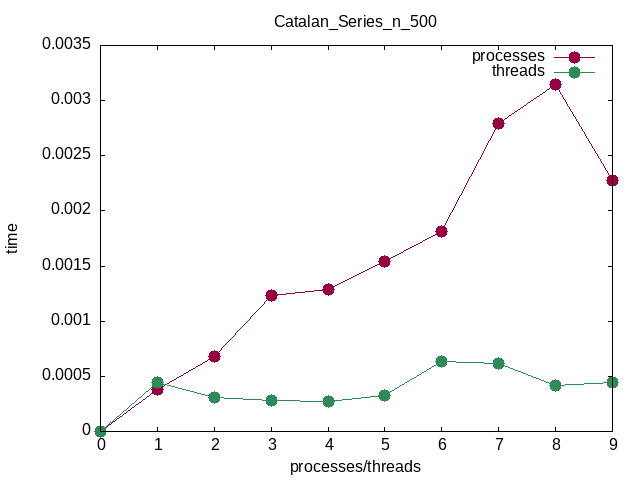
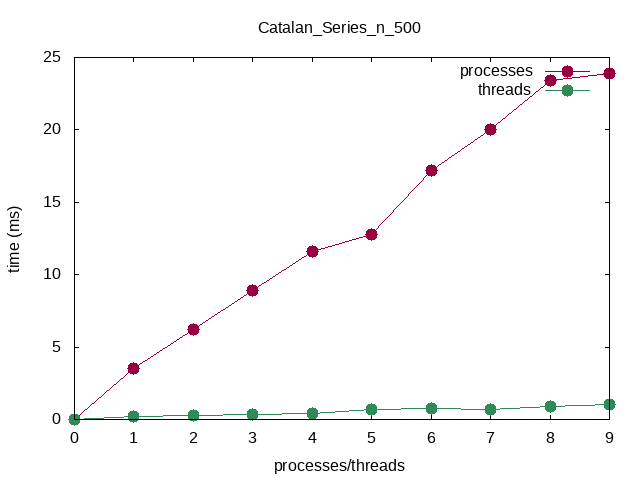
taylor series test complete

diff --git a/main.c b/main.c
@@ -2,19 +2,19 @@
 #include "algotest.h"
 #include <string.h>
 
-void generate_image(char* title, double* p_data, double* t_data, const int n) {
+void generate_image(char* title, double* p_data, double* t_data, const int n, char* xlabel) {
 	FILE *gp = popen("gnuplot", "w");
 
 	fprintf(gp, "set key noenhanced\n" 
 				"set title '%s' noenhanced\n"
 				"set style data linespoints\n"
-				"set xlabel 'processes/threads'\n"
-				"set ylabel 'time'\n"
+				"set xlabel '%s'\n"
+				"set ylabel 'time (ms)'\n"
 				"set style line 1 lw 1 lc rgb '#990042' ps 2 pt 7 pi 1\n"
 				"set style line 2 lw 1 lc rgb '#2E8B57' ps 2 pt 7 pi 1\n"
 				"set terminal png\n"
 				"set output '%s.png'\n"
-				"plot '-' title 'processes' ls 1, '' title 'threads' ls 2\n", title, title);
+				"plot '-' title 'processes' ls 1, '' title 'threads' ls 2\n", title, xlabel, title);
 	for(int i=0; i<n; i++){
 		fprintf(gp, "%d %lf\n", i, p_data[i]);
 	}
@@ -28,20 +28,55 @@ void generate_image(char* title, double* p_data, double* t_data, const int n) {
 	pclose(gp);
 }
 
-void test_and_generate(char* title, int n, double (*process)(int, const int), double (*thread)(int, const int)) {
+void test_and_generate(char* title, int n, double (*process)(int, const int), double (*thread)(int, const int), char* xlabel) {
 	double fork_times[10] = {0}, thread_times[10] = {0};
 
 	for(int p=1; p<10; p++){
-		fork_times[p] = process(n, p);
-		thread_times[p] = thread(n, p);
+		fork_times[p] = 1000*process(n, p);
+		thread_times[p] = 1000*thread(n, p);
 	}
-	generate_image(title, fork_times, thread_times, 10);
+	generate_image(title, fork_times, thread_times, 10, xlabel);
 
 }
 
+void taylor_test(){
+	double taylor_thread_time[10] = {0}, taylor_fork_time[10] = {0};
+	int i = 0;
+	for(int i = 1; i<10; i++){
+		taylor_fork_time[i] = 1000.0*taylor_fork(i*20);
+		taylor_thread_time[i] = 1000.0*taylor_thread(i*20);
+	}
+
+	FILE *gp = popen("gnuplot", "w");
+
+	fprintf(gp, "set key noenhanced\n" 
+				"set title 'Taylor_Series' noenhanced\n"
+				"set style data linespoints\n"
+				"set xlabel 'x'\n"
+				"set ylabel 'time (ms)'\n"
+				"set style line 1 lw 1 lc rgb '#990042' ps 2 pt 7 pi 1\n"
+				"set style line 2 lw 1 lc rgb '#2E8B57' ps 2 pt 7 pi 1\n"
+				"set terminal png\n"
+				"set output 'Taylor_Series.png'\n"
+				"plot '-' title 'processes' ls 1, '' title 'threads' ls 2\n");
+
+	for(int i=1; i<=10; i++){
+		fprintf(gp, "%d %lf\n", i*20, taylor_fork_time[i-1]);
+	}
+	fprintf(gp, "e\n");
+	for(int i=1; i<10; i++){
+		fprintf(gp, "%d %lf\n", i*20, taylor_thread_time[i-1]);
+	}
+
+	fprintf(gp, "e\n");
+	fflush(gp);
+	pclose(gp);
+
+}
 int main() {
-	// test_and_generate("Levenshtein_Distance", 4, &levenshtein_fork, &levenshtein_thread);
-	test_and_generate("Catalan_Series_n_500", 500, &cat_fork, &cat_thread); 
+	test_and_generate("Levenshtein_Distance", 4, &levenshtein_fork, &levenshtein_thread, "processes/threads");
+	test_and_generate("Catalan_Series_n_500", 500, &cat_fork, &cat_thread, "processes/threads"); 
+	taylor_test();
 
     return 0;
 }

diff --git a/algotest.c b/algotest.c
@@ -7,6 +7,7 @@
 #include <pthread.h>
 #include <string.h>
 #include <sys/mman.h>
+#include <math.h>
 #define NANOSEC_PER_SEC 1E9
 
 #define TIMER_START clockid_t c_id = 0;\
@@ -64,7 +65,8 @@ double levenshtein_thread(int n, const int threads) {
 	}
 	RETURN_TIME
 }
-	static double *result;
+
+static double *result;
 
 double cat_fork(int n, const int processes) {
 	TIMER_START
@@ -170,18 +172,89 @@ int trig_fork(int n, const int processes) {
 	RETURN_TIME
 }
 
-int taylor_fork(int x, const int processes) {
-	TIMER_START
-	for (size_t i = 0; i < processes; i++) {
-		pid_t pid;
-		pid = fork();
-		if(pid == 0){
+ void *power(void *arg) {
+	int x = *(int *)arg;
+	int* pwr = calloc(sizeof(int), 150);
+    for (int k = 0; k < 150; k++) {
+        pwr[k] = pow(x, k);
+        //printf("%.2Lf\n", pwr[k]);
+    }
+	pthread_exit(pwr);
+}
 
-			exit(1);
-		}
-		/* code */
-	}
+void *factorial(void *arg) {
+ 	double f;
+	double* fact = calloc(sizeof(double), 150);
+    fact[0] = 1.0;
+    for (int term = 1; term < 150; term++) {
+        f = 1.0;
+        for (int j = term; j > 0; j--)
+            f = f * j;
+        fact[term] = f;
+    }
+	pthread_exit(fact);
+}
+
+double taylor_thread(int x) {
+	TIMER_START
+	double sum = 0;
+	int* pwr;
+	double* fact;
+	pthread_t pwr_thread, fact_thread;
+	pthread_create(&pwr_thread, NULL, power, &x);
+	pthread_create(&fact_thread, NULL, factorial, NULL);
 	
+
+	pthread_join(pwr_thread, (void **)&pwr);
+
+	pthread_join(fact_thread, (void **)&fact);
+		
+    for (int i = 0; i < 150; i++)
+        sum = sum + (pwr[i] / fact[i]);
+
+	RETURN_TIME
+}
+
+
+double taylor_fork(int x) {
+	TIMER_START
+	double sum = 0;
+	int* pwr = calloc(sizeof(int), 150); 
+	double* fact = calloc(sizeof(int), 150);
+
+	pwr = mmap(NULL, sizeof(pwr), PROT_READ | PROT_WRITE,
+					MAP_SHARED | MAP_ANONYMOUS, -1, 0);
+
+	fact = mmap(NULL, sizeof(fact), PROT_READ | PROT_WRITE,
+					MAP_SHARED | MAP_ANONYMOUS, -1, 0);
+
+	if(fork() == 0){
+		for (int k = 0; k < 150; k++)
+			pwr[k] = pow(x, k);
+		exit(EXIT_SUCCESS);
+	}	
+
+	if(fork() == 0){
+		fact[0] = 1.0;
+		double f;
+		for (int term = 1; term < 150; term++) {
+			f = 1.0;
+			for (int j = term; j > 0; j--)
+				f = f * j;
+			fact[term] = f;
+		}
+		exit(EXIT_SUCCESS);
+	}
+
 	wait(NULL);
+	wait(NULL);
+
+
+    for (int i = 0; i < 150; i++)
+        sum = sum + (pwr[i] / fact[i]);
+
+	munmap(pwr, sizeof(int*));
+	munmap(fact, sizeof(double*));
+
 	RETURN_TIME
 }

diff --git a/algotest.h b/algotest.h
@@ -2,3 +2,6 @@ double levenshtein_thread(int n, const int threads);
 double levenshtein_fork(int n, const int processes);
 double cat_fork(int n, const int processes);
 double cat_thread(int n, const int threads);
+double taylor_fork(int x); 
+double taylor_thread(int x); 
+

diff --git a/lib/jj.c b/lib/jj.c
@@ -1,0 +1,5 @@
+#include <stdio.h>
+
+int main(){
+	printf("hh");
+}
